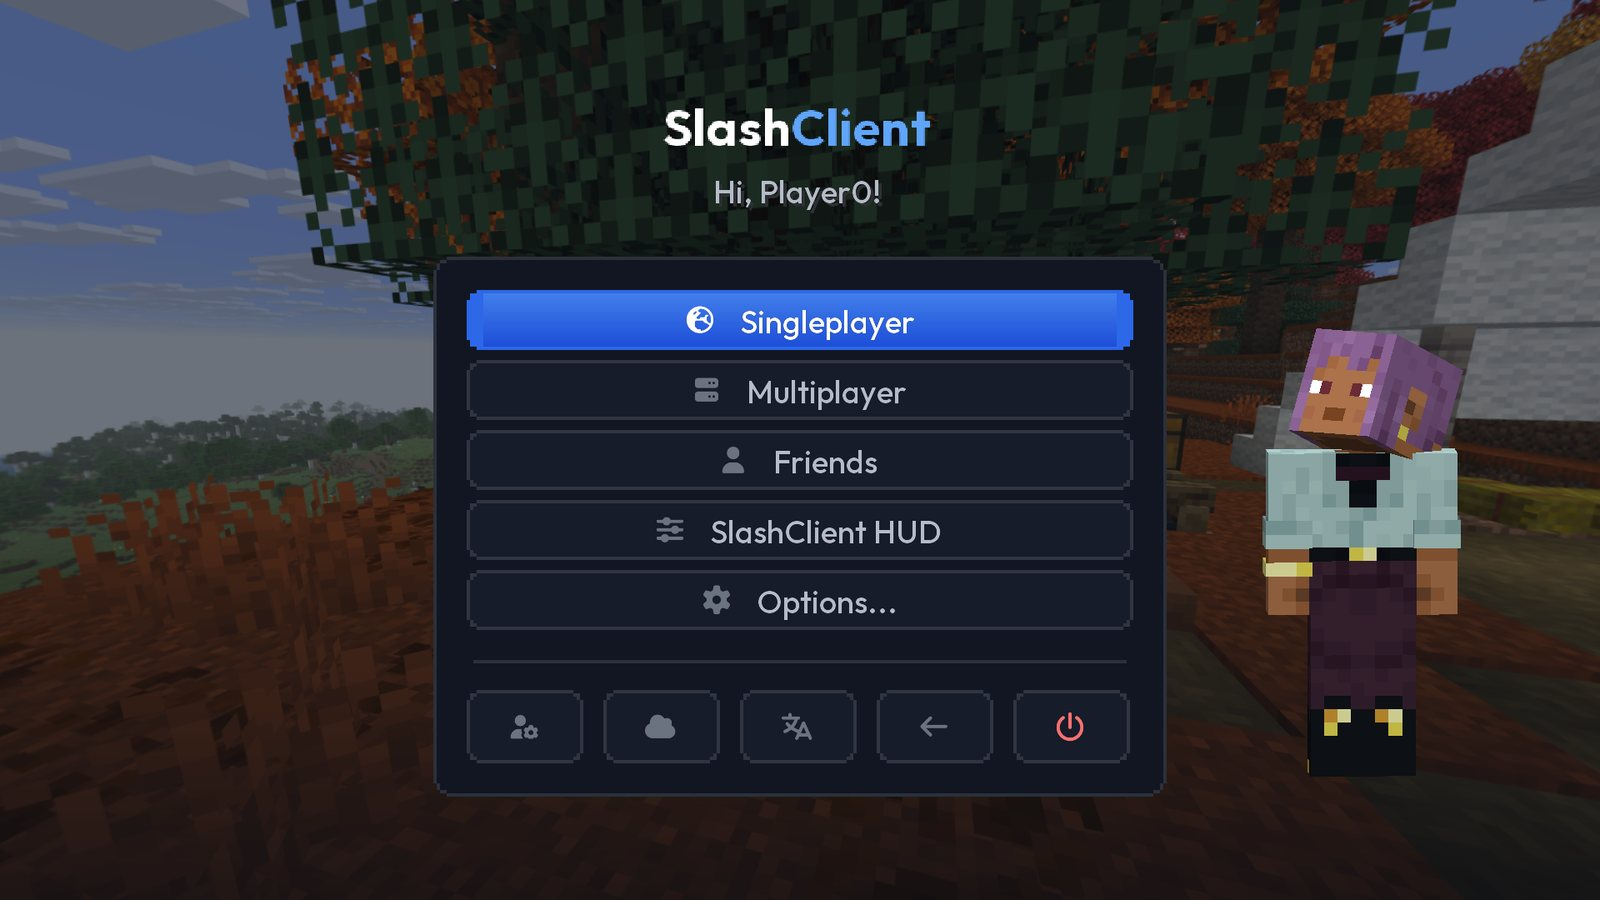
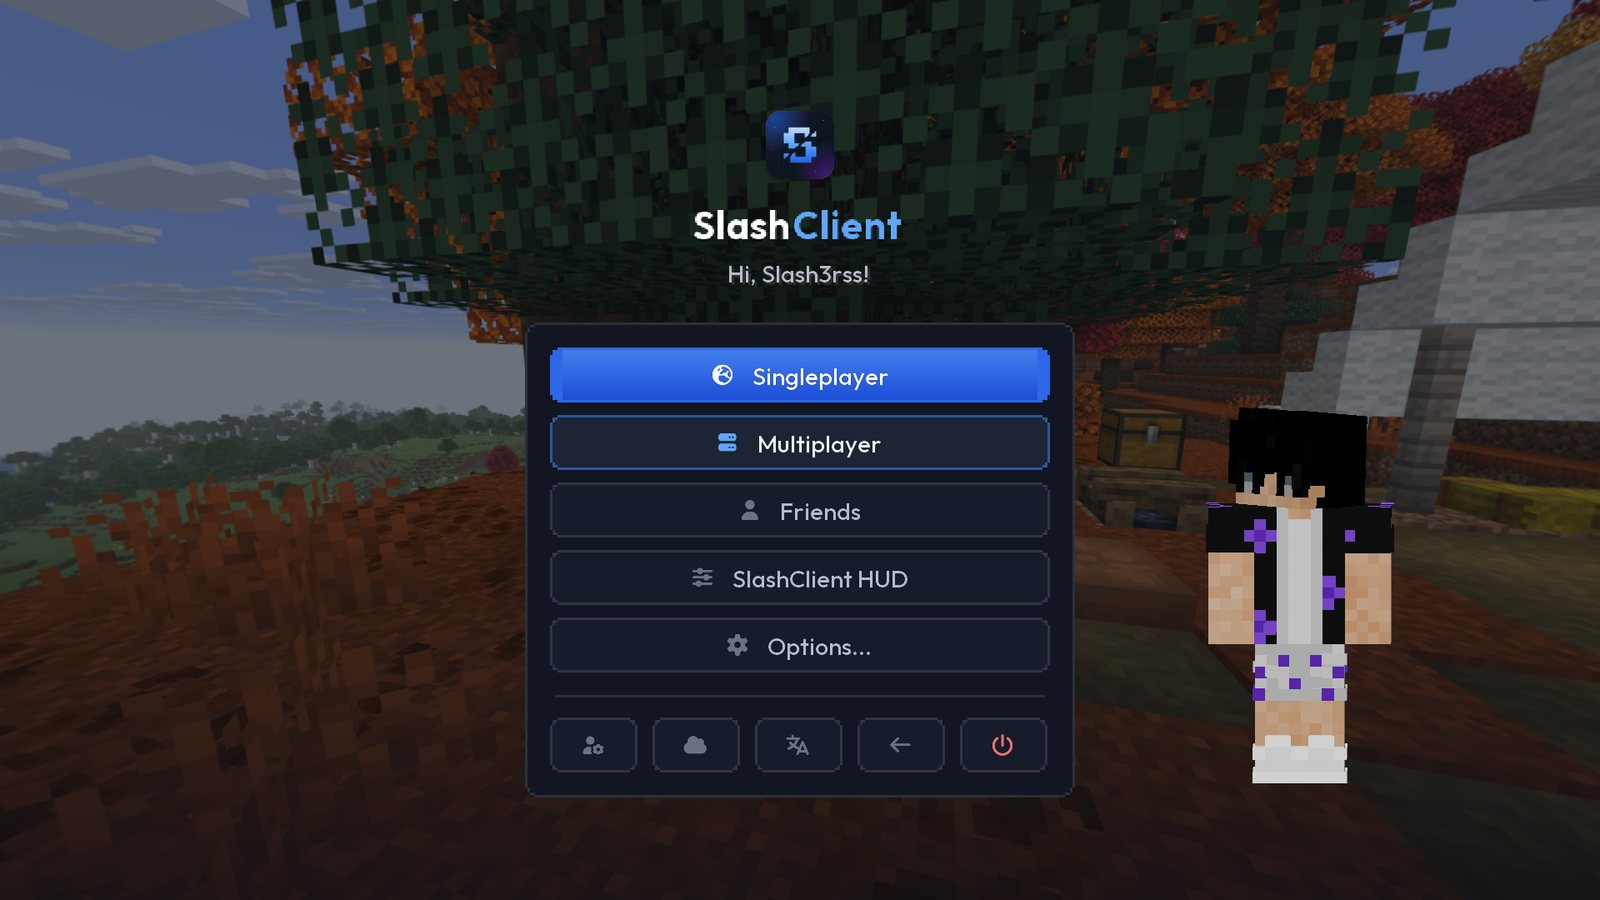
Zrzuty na stronę z nickiem i skinem Slash3rss, strona sprawdza zmiany plików
- Test WebsiteShots (gradlew runClientGameTest -Pshots[=nick]) robi zrzuty na
  stronę w zwykłym świecie 1920x1080: menu, HUD, edytor, peleryna, elytra,
  emotka, koło emotek, znajomi, benchmark. Gracz ma podany nick i skin z
  zasobów testów (skin poza repozytorium); podgląd w menu też go nosi.
- Nowe grafiki na stronie głównej.
- Serwer strony: Last-Modified i 304 dla wszystkich plików, więc po
  aktualizacji nikt nie widzi starych obrazków.

Changed region(s): [[0.25, 0.1244, 0.9375, 0.9022]]

diff --git a/server/src/web.ts b/server/src/web.ts
@@ -14,7 +14,7 @@ const TYPES: Record<string, string> = {
 const PAGES: Record<string, string> = { '/': 'index.html', '/konto': 'konto.html', '/admin': 'admin.html', '/admin/': 'admin.html' };
 
 /** Serves a file of the site; false when there is none (the caller answers 404). */
-export async function serveWeb(webDir: string, pathname: string, res: http.ServerResponse): Promise<boolean> {
+export async function serveWeb(webDir: string, pathname: string, res: http.ServerResponse, ifModifiedSince?: string): Promise<boolean> {
   const root = path.resolve(webDir);
   let rel: string;
   try {
@@ -28,13 +28,21 @@ export async function serveWeb(webDir: string, pathname: string, res: http.Serve
   const type = TYPES[path.extname(file).toLowerCase()];
   if (!type) return false;
   try {
-    if (!(await stat(file)).isFile()) return false;
+    const info = await stat(file);
+    if (!info.isFile()) return false;
+    // every file is checked on each visit (a cheap 304 when unchanged), so an update reaches everyone at once
+    const modified = new Date(Math.floor(info.mtimeMs / 1000) * 1000);
+    if (ifModifiedSince && !Number.isNaN(Date.parse(ifModifiedSince)) && Date.parse(ifModifiedSince) >= modified.getTime()) {
+      res.writeHead(304, { 'Cache-Control': 'no-cache', 'Last-Modified': modified.toUTCString() });
+      res.end();
+      return true;
+    }
     const data = await readFile(file);
     const headers: Record<string, string> = {
       'Content-Type': type,
       'X-Content-Type-Options': 'nosniff',
-      // pages, scripts and styles are checked on every visit, so an update reaches everyone at once
-      'Cache-Control': /^text\/(html|css|javascript)/.test(type) ? 'no-cache' : 'public, max-age=86400',
+      'Cache-Control': 'no-cache',
+      'Last-Modified': modified.toUTCString(),
     };
     if (type.startsWith('text/html')) {
       // avatars come from the sign-in providers

diff --git a/server/web/index.html b/server/web/index.html
@@ -93,8 +93,8 @@
             </ul>
           </div>
           <div class="show-media stack">
-            <img class="frame" src="img/hud-editor.jpg" alt="Edytor HUD" loading="lazy">
-            <img class="frame small" src="img/hud-settings.jpg" alt="Ustawienia modułów HUD" loading="lazy">
+            <img class="frame" src="img/hud-game.jpg" alt="HUD SlashClient w grze" loading="lazy">
+            <img class="frame small" src="img/hud-editor.jpg" alt="Edytor HUD" loading="lazy">
           </div>
         </div>
 
@@ -125,7 +125,7 @@
           </div>
           <div class="show-media stack">
             <img class="frame" src="img/cape-game.jpg" alt="Peleryna SlashClient w grze" loading="lazy">
-            <img class="frame small" src="img/emote-wheel.jpg" alt="Koło emotek" loading="lazy">
+            <img class="frame small" src="img/emote-wheel.jpg" alt="Emotka nad głową gracza" loading="lazy">
           </div>
         </div>
 

diff --git a/server/test/admin.test.ts b/server/test/admin.test.ts
@@ -52,6 +52,10 @@ describe('website', () => {
     assert.match(page.csp, /default-src 'self'/);
     assert.match((await call('GET', '/admin')).text, /panel/);
     assert.equal((await call('GET', '/style.css')).type, 'text/css; charset=utf-8');
+    // unchanged files answer 304 to a browser that has them
+    const first = await fetch(base + '/style.css');
+    const again = await fetch(base + '/style.css', { headers: { 'If-Modified-Since': first.headers.get('last-modified')! } });
+    assert.equal(again.status, 304);
     for (const evil of ['/../secret.txt', '/%2e%2e/secret.txt', '/..%5csecret.txt', '/.env', '/x.exe']) {
       assert.equal((await call('GET', evil)).status, 404, evil);
     }

diff --git a/server/src/app.ts b/server/src/app.ts
@@ -455,7 +455,7 @@ export function createApp(cfg: Config) {
       return;
     }
     // everything that is not the API is the website
-    if (cfg.webDir && req.method === 'GET' && !url.pathname.startsWith('/v1/') && await serveWeb(cfg.webDir, url.pathname, res)) return;
+    if (cfg.webDir && req.method === 'GET' && !url.pathname.startsWith('/v1/') && await serveWeb(cfg.webDir, url.pathname, res, req.headers['if-modified-since'])) return;
     res.writeHead(404, { 'Content-Type': 'application/json' });
     res.end(JSON.stringify({ error: 'not_found' }));
   }

diff --git a/hud/src/gametest/java/dev/slash3rss/slashclient/hud/test/WebsiteShots.java b/hud/src/gametest/java/dev/slash3rss/slashclient/hud/test/WebsiteShots.java
@@ -1,0 +1,108 @@
+package dev.slash3rss.slashclient.hud.test;
+
+import dev.slash3rss.slashclient.hud.TestHooks;
+import net.fabricmc.fabric.api.client.gametest.v1.FabricClientGameTest;
+import net.fabricmc.fabric.api.client.gametest.v1.context.ClientGameTestContext;
+import net.fabricmc.fabric.api.client.gametest.v1.context.TestSingleplayerContext;
+
+/**
+ * Screenshots for the website, in a real (not flat) world at 1920×1080. Only with -Pshots: the
+ * player then has that nick, and wears textures/skin/slash3rss.png from the test resources.
+ */
+public class WebsiteShots implements FabricClientGameTest {
+	@Override
+	public void runTest(ClientGameTestContext context) {
+		if (!Boolean.getBoolean("slashclient.test.shots")) return;
+		context.getInput().resizeWindow(1920, 1080);
+		context.runOnClient(mc -> TestHooks.guiScale(3));
+		context.runOnClient(mc -> TestHooks.testSkin("slash3rss"));
+		context.runOnClient(mc -> TestHooks.slashMenu());
+
+		// the menu, the figure looking towards the buttons
+		context.setScreen(dev.slash3rss.slashclient.hud.ui.SlashTitleScreen::new);
+		context.getInput().setCursorPos(760, 520);
+		context.waitTicks(60);
+		context.runOnClient(mc -> TestHooks.cleanScreen());
+			context.takeScreenshot("web-menu");
+
+		try (TestSingleplayerContext world = context.worldBuilder().setUseConsistentSettings(false).adjustSettings(s -> s.setSeed("slashclient")).create()) {
+			context.waitTicks(100);
+			for (String cmd : new String[] {
+				"time set 1000", "weather clear", "gamerule doDaylightCycle false", "gamerule advance_time false",
+				"item replace entity @a armor.head with diamond_helmet", "item replace entity @a armor.chest with diamond_chestplate",
+				"item replace entity @a armor.legs with diamond_leggings", "item replace entity @a armor.feet with diamond_boots",
+				"item replace entity @a weapon.mainhand with diamond_sword", "item replace entity @a weapon.offhand with golden_apple",
+				"effect give @a speed 600 0 true", "effect give @a night_vision 600 0 true",
+				"gamerule show_advancement_messages false", "gamerule announceAdvancements false",
+				// on a pillar above the trees, looking out over the land
+				"spreadplayers 0 0 0 40 false @a",
+				"execute at @a run fill ~ ~ ~ ~ ~9 ~ stone_bricks",
+				"execute at @a run tp @a ~ ~10 ~ 135 12",
+			}) world.getServer().runCommand(cmd);
+			context.runOnClient(mc -> TestHooks.defaults());
+			context.runOnClient(mc -> TestHooks.renderDistance(16));
+			context.waitTicks(200);
+			context.runOnClient(mc -> TestHooks.cleanScreen());
+			context.waitTicks(5);
+			context.runOnClient(mc -> TestHooks.cleanScreen());
+			context.takeScreenshot("web-hud");
+
+			context.setScreen(dev.slash3rss.slashclient.hud.HudEditScreen::new);
+			context.waitTicks(10);
+			context.runOnClient(mc -> TestHooks.cleanScreen());
+			context.takeScreenshot("web-hud-editor");
+			context.setScreen(dev.slash3rss.slashclient.hud.HudEditScreen::settingsWindow);
+			context.waitTicks(10);
+			context.runOnClient(mc -> TestHooks.cleanScreen());
+			context.takeScreenshot("web-hud-settings");
+			context.setScreen(() -> null);
+
+			// the cape from behind, an emote by the name, the emote wheel
+			world.getServer().runCommand("item replace entity @a armor.chest with air");
+			context.runOnClient(mc -> TestHooks.cosmeticsSelf("galaxy", false));
+			context.waitTicks(20);
+			context.runOnClient(mc -> TestHooks.cleanScreen());
+			context.takeScreenshot("web-cape");
+			world.getServer().runCommand("item replace entity @a armor.chest with elytra");
+			context.waitTicks(10);
+			context.runOnClient(mc -> TestHooks.cleanScreen());
+			context.takeScreenshot("web-elytra");
+			world.getServer().runCommand("item replace entity @a armor.chest with diamond_chestplate");
+			context.runOnClient(mc -> TestHooks.cosmeticsSelf("galaxy", true));
+			context.runOnClient(mc -> TestHooks.emoteSelf("heart"));
+			context.waitTicks(5);
+			context.runOnClient(mc -> TestHooks.cleanScreen());
+			context.takeScreenshot("web-emote");
+			context.runOnClient(mc -> TestHooks.firstPerson());
+			context.runOnClient(mc -> TestHooks.emoteWheel());
+			context.getInput().setCursorPos(1060, 380);
+			context.waitTicks(10);
+			context.runOnClient(mc -> TestHooks.cleanScreen());
+			context.takeScreenshot("web-wheel");
+			context.setScreen(() -> null);
+
+			// friends with invites
+			String friend = context.computeOnClient(mc -> TestHooks.sampleInvites());
+			context.setScreen(() -> {
+				dev.slash3rss.slashclient.hud.social.Social.viewing = friend;
+				return new dev.slash3rss.slashclient.hud.social.FriendsScreen(null);
+			});
+			context.waitTicks(10);
+			context.runOnClient(mc -> TestHooks.cleanScreen());
+			context.takeScreenshot("web-friends");
+			context.setScreen(() -> null);
+
+			// a real benchmark run and its result
+			context.runOnClient(mc -> TestHooks.startBenchmark());
+			long started = System.currentTimeMillis();
+			while (context.computeOnClient(mc -> TestHooks.benchmarkRunning()) && System.currentTimeMillis() - started < 120_000) context.waitTick();
+			context.waitTicks(5);
+			context.runOnClient(mc -> TestHooks.cleanScreen());
+			context.takeScreenshot("web-bench");
+			context.setScreen(() -> null);
+			context.runOnClient(mc -> TestHooks.cosmeticsSelf(null, false));
+		}
+		context.getInput().resizeWindow(854, 480);
+		context.runOnClient(mc -> TestHooks.vanillaMenu());
+	}
+}

diff --git a/hud/src/main/java/dev/slash3rss/slashclient/hud/TestHooks.java b/hud/src/main/java/dev/slash3rss/slashclient/hud/TestHooks.java
@@ -373,4 +373,24 @@ public final class TestHooks {
 			return "none";
 		}
 	}
+
+	/** Our own player wears this skin (a texture of the test mod), for the website's screenshots. */
+	public static void testSkin(String texture) {
+		var id = net.minecraft.resources.Identifier.fromNamespaceAndPath("slashclient-hud-test", "skin/" + texture);
+		Cosmetics.testSkin = new net.minecraft.core.ClientAsset.ResourceTexture(id,
+			net.minecraft.resources.Identifier.fromNamespaceAndPath("slashclient-hud-test", "textures/skin/" + texture + ".png"));
+		Cosmetics.testSkinFor = net.minecraft.client.Minecraft.getInstance().getGameProfile().id();
+	}
+
+
+	/** No toasts or chat lines over a screenshot. */
+	public static void cleanScreen() {
+		var mc = net.minecraft.client.Minecraft.getInstance();
+		Compat.toasts(mc).clear();
+		Compat.chat(mc).clearMessages(false);
+	}
+
+	public static void renderDistance(int chunks) {
+		net.minecraft.client.Minecraft.getInstance().options.renderDistance().set(chunks);
+	}
 }

diff --git a/hud/src/main/java/dev/slash3rss/slashclient/hud/Cosmetics.java b/hud/src/main/java/dev/slash3rss/slashclient/hud/Cosmetics.java
@@ -50,8 +50,18 @@ public final class Cosmetics {
 		emotes.clear();
 	}
 
+	/** For the screenshots of the website (TestHooks): our own player in a given skin. */
+	static ClientAsset.Texture testSkin;
+	static UUID testSkinFor;
+
+	public static PlayerSkin withTestSkin(UUID id, PlayerSkin skin) {
+		if (testSkin == null || !id.equals(testSkinFor)) return skin;
+		return new PlayerSkin(testSkin, skin.cape(), skin.elytra(), net.minecraft.world.entity.player.PlayerModelType.WIDE, skin.secure());
+	}
+
 	/** The skin with our cape in place of the player's own, when they picked one. */
 	public static PlayerSkin withCape(UUID id, PlayerSkin skin) {
+		skin = withTestSkin(id, skin);
 		if (!SlashHud.config.badges) return skin;
 		String cape = capes.get(id);
 		if (cape == null) return skin;

diff --git a/hud/src/main/java/dev/slash3rss/slashclient/hud/ui/SkinPreview.java b/hud/src/main/java/dev/slash3rss/slashclient/hud/ui/SkinPreview.java
@@ -51,7 +51,7 @@ public final class SkinPreview {
 
 	/** Draws the figure in the box; the head looks at (mx, my). */
 	public void draw(GuiGraphicsExtractor g, int x, int y, int w, int h, int mx, int my) {
-		PlayerSkin s = skin.get();
+		PlayerSkin s = dev.slash3rss.slashclient.hud.Cosmetics.withTestSkin(Minecraft.getInstance().getGameProfile().id(), skin.get());
 		var model = s.model() == PlayerModelType.SLIM ? slim : wide;
 		float scale = 0.97f * h / MODEL_HEIGHT;
 		// where the eyes are on screen: a little below the top of the box, in the middle
